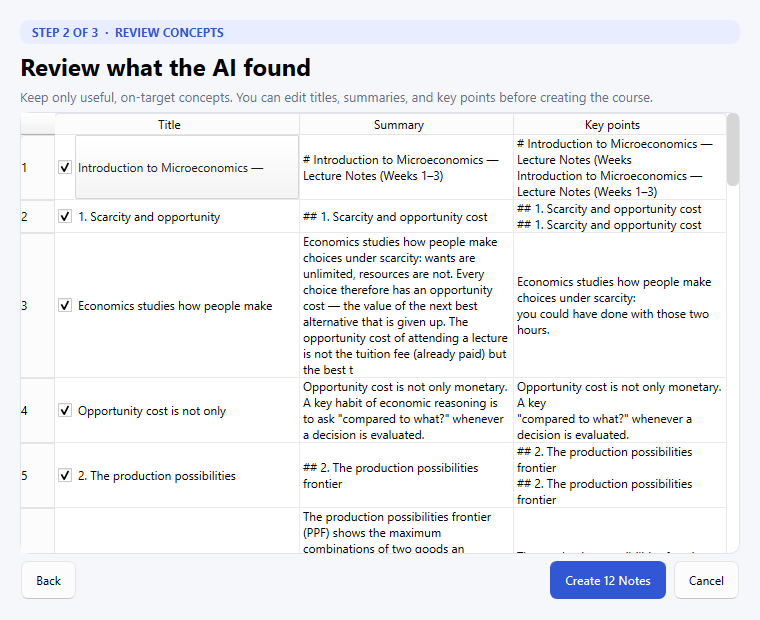
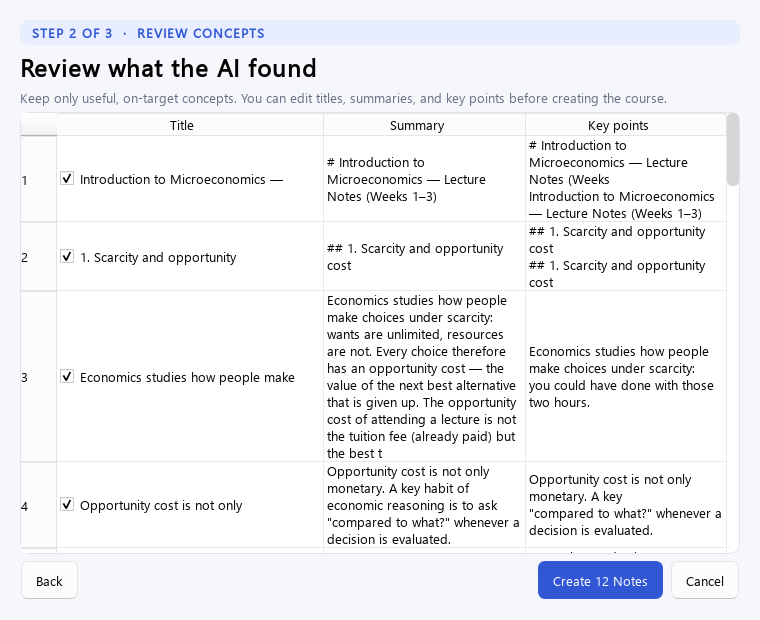
Refresh-AI-generation-screenshots

diff --git a/tools/ankigpt_screenshots.py b/tools/ankigpt_screenshots.py
@@ -9,8 +9,8 @@ Usage (from the repo root, after `just build`):
         docs/ankigpt/screenshots [base-dir]
 
 With ANKIGPT_FAKE_LLM=1 it runs without network (placeholder content) —
-useful to check layouts. Screens include the Study Hub, concept editor, About
-page, create-course flow, reviewer, source viewer, and course settings.
+useful to check layouts. Screens cover the current Study Hub routes and the
+AI-assisted typed-answer reviewer shown in the repository documentation.
 """
 
 from __future__ import annotations
@@ -30,12 +30,14 @@ sys.path.extend(["pylib", "qt", "out/pylib", "out/qt"])
 
 import aqt  # noqa: E402
 from aqt.profiles import ProfileManager  # noqa: E402
-from aqt.qt import QWidget  # noqa: E402
+from aqt.qt import QFont, QFontDatabase, QWidget  # noqa: E402
 
 OUT = Path(sys.argv[1] if len(sys.argv) > 1 else "docs/ankigpt/screenshots")
 BASE = sys.argv[2] if len(sys.argv) > 2 else "/tmp/ankigpt-screenshots-base"
 SAMPLE = Path("docs/ankigpt/sample-course.md").resolve()
-DECK = "Intro Microeconomics"
+COURSE = "Intro Microeconomics"
+SUBCATEGORY = "Core Notes"
+DECK = f"{COURSE}::{SUBCATEGORY}"
 INSTRUCTIONS = (
     "First-year intro microeconomics, weeks 1-3. Focus on the core models and "
     "the intuition behind them, not on the numerical examples."
@@ -64,6 +66,13 @@ def run() -> None:
     aqt.AnkiApp.KEY = f"ankigpt-screenshots-{os.getpid()}"
     app = aqt._run(["anki", "-b", BASE], exec=False)
     assert app is not None
+    for font_path in (
+        "C:/Windows/Fonts/segoeui.ttf",
+        "C:/Windows/Fonts/arial.ttf",
+    ):
+        if Path(font_path).exists() and QFontDatabase.addApplicationFont(font_path) >= 0:
+            app.setFont(QFont("Segoe UI", 10))
+            break
 
     def pump(cond: Callable[[], bool], what: str, timeout: float = 180) -> None:
         start = time.time()
@@ -94,76 +103,98 @@ def run() -> None:
     settle()
     col = mw.col
 
-    from aqt.ankigpt import get_store
     from aqt.ankigpt.generate_dialog import CreateConceptDeckDialog
     from aqt.ankigpt.settings import (
         DeckSettings,
-        DeckSettingsDialog,
-        deck_settings,
         save_deck_settings,
     )
 
     # ---- 1. create-deck dialog, filled in
     dialog = CreateConceptDeckDialog(mw)
     dialog.resize(760, 620)
-    dialog.files.append(str(SAMPLE))
-    dialog.file_list.addItem(str(SAMPLE))
-    dialog._suggest_target()
-    dialog.deck_name.setCurrentText(DECK)
+    dialog._add_source_paths([str(SAMPLE)])
+    dialog.deck_name.setCurrentText(COURSE)
+    dialog.subcategory.setText(SUBCATEGORY)
     dialog.instructions.setPlainText(INSTRUCTIONS)
     dialog.target.setValue(12)
     dialog.mode.setCurrentIndex(1)  # typed
     shot(dialog, "02-create-deck")
 
-    # ---- 2. extraction with the progress page, then the preview table
+    # ---- 2. representative book structure review
+    from aqt.ankigpt import extract
+    from aqt.ankigpt.book_structure import detect_book_structure
+
+    book_dialog = CreateConceptDeckDialog(mw)
+    book_dialog.resize(900, 650)
+    book_dialog.book_source.setChecked(True)
+    book_dialog.deck_name.setCurrentText("Physical Geology")
+    book_dialog.subcategory.setText("Physical Geology, 2nd Edition")
+    book_text = "\n\n".join(
+        [
+            "# Chapter 1 Foundations",
+            "## 1.1 What Is Geology?\n" + "Earth systems and inquiry. " * 180,
+            "## 1.2 Why Study Earth?\n" + "Hazards and resources. " * 150,
+            "# Chapter 2 Minerals",
+            "## 2.1 Elements and Atoms\n" + "Atomic structure and bonding. " * 170,
+            "## 2.2 Mineral Properties\n" + "Physical properties. " * 190,
+        ]
+    )
+    book_dialog._book_doc = extract.Document("physical-geology.md", book_text)
+    book_dialog._book_chapters = detect_book_structure(book_text)
+    book_dialog._fill_structure_tree()
+    book_dialog.stack.setCurrentIndex(1)
+    shot(book_dialog, "17-book-structure")
+    book_dialog.close()
+
+    # ---- 3. extraction with progress, then concept review
     dialog.on_extract()
     # capture the progress page once a few log lines are in (or immediately
     # if extraction is instantaneous, e.g. with the fake client)
     pump(
-        lambda: dialog.stack.currentIndex() != 2
+        lambda: dialog.stack.currentIndex() != 3
         or dialog.progress_log.blockCount() >= 4,
         "progress page",
         120,
     )
-    if dialog.stack.currentIndex() == 2:
+    if dialog.stack.currentIndex() == 3:
         shot(dialog, "03-extracting", 0)
-    pump(lambda: dialog.stack.currentIndex() == 1, "extraction to finish", 600)
+    else:
+        dialog.stack.setCurrentIndex(3)
+        shot(dialog, "03-extracting", 0)
+        dialog.stack.setCurrentIndex(2)
+    pump(lambda: dialog.stack.currentIndex() == 2, "extraction to finish", 600)
     dialog.table.resizeRowsToContents()
     shot(dialog, "04-preview")
     dialog.on_create()
     pump(lambda: not dialog.isVisible(), "notes to be created", 60)
 
-    # ---- 3. current Study Hub and its primary informational routes
+    # ---- 3. current Study Hub and its primary routes
     mw.moveToState("deckBrowser")
-    mw.deckBrowser.refresh()
-    settle(3.0)
-    mw.deckBrowser.web.eval("window.scrollTo(0, 0);")
-    shot(mw.deckBrowser.web, "01-deck-list", 1.0)
-
     import aqt.ankigpt as ankigpt_module
 
-    concepts = ankigpt_module._concept_records(mw)
-    if concepts:
-        ankigpt_module._shell_route = f"concept:{concepts[0][0]}"
+    def shell_shot(route: str, name: str) -> None:
+        ankigpt_module._shell_route = route
         mw.deckBrowser.refresh()
         settle(3.0)
         mw.deckBrowser.web.eval("window.scrollTo(0, 0);")
-        shot(mw.deckBrowser.web, "12-concept-editor", 1.0)
-    ankigpt_module._shell_route = "about"
-    mw.deckBrowser.refresh()
-    settle(3.0)
-    mw.deckBrowser.web.eval("window.scrollTo(0, 0);")
-    shot(mw.deckBrowser.web, "13-about", 1.0)
-    ankigpt_module._shell_route = "home"
+        shot(mw.deckBrowser.web, name, 1.0)
 
-    # ---- 4. overview of the concept deck (badge + Concept Settings)
     deck_id = col.decks.id_for_name(DECK)
     assert deck_id is not None
-    col.decks.select(deck_id)
-    mw.moveToState("overview")
-    shot(mw, "05-overview")
+    shell_shot("home", "01-deck-list")
+    shell_shot("concepts", "14-concepts")
+    concepts = ankigpt_module._concept_records(mw)
+    if concepts:
+        shell_shot(f"concept:{concepts[0][0]}", "12-concept-editor")
+    shell_shot(f"course:{int(deck_id)}", "15-course")
+    shell_shot("settings", "16-settings")
+    shell_shot("about", "13-about")
+    ankigpt_module._shell_route = "home"
 
-    # ---- 5. typed-mode question, then graded answer
+    # ---- 4. select the generated course before entering the reviewer
+    col.decks.select(deck_id)
+
+    # ---- 5. current typed-mode question, then graded answer
     save_deck_settings(col, deck_id, DeckSettings(mode="typed", context=INSTRUCTIONS))
     reviewer = mw.reviewer
     mw.moveToState("review")
@@ -180,49 +211,6 @@ def run() -> None:
     settle(1.0)
     reviewer.web.eval("window.scrollTo(0, 0);")
     shot(mw, "07-review-graded", 0.5)
-
-    # ---- 5b. the source viewer, opened from the answer's "Open in source" link
-    from aqt.ankigpt.sources import SourceViewerDialog
-
-    cur = reviewer.ankigpt._current
-    docs = get_store().documents_for_deck(int(deck_id))
-    if cur is not None and cur.passages and docs:
-        viewer = SourceViewerDialog(
-            mw, docs, cur.passages[0].doc_id, [(p.start, p.end) for p in cur.passages]
-        )
-        viewer.show()
-        shot(viewer, "11-source-viewer", 1.0)
-        viewer.close()
-
-    # ---- 6. multiple choice on the next card (fresh generation)
-    first_id = reviewer.card.id
-    save_deck_settings(col, deck_id, DeckSettings(mode="mcq", context=INSTRUCTIONS))
-    store = get_store()
-    store.db.execute("DELETE FROM question_cache")
-    store.db.commit()
-    reviewer._answerCard(3)
-    pump(
-        lambda: reviewer.state == "question" and reviewer.card.id != first_id,
-        "next card",
-    )
-    settle(1.0)
-    shot(mw, "08-review-mcq")
-
-    # ---- 7. deck settings dialog
-    mw.moveToState("overview")
-    settings_dialog = DeckSettingsDialog(mw, deck_id)
-    settings_dialog.show()
-    shot(settings_dialog, "09-deck-settings", 0.8)
-    settings_dialog.close()
-    assert deck_settings(col, deck_id).mode == "mcq"
-
-    # ---- 8. the in-app guide
-    from aqt.ankigpt.help import GuideDialog
-
-    guide = GuideDialog(mw)
-    guide.show()
-    shot(guide, "10-guide", 0.8)
-    guide.close()
 
     mw.unloadProfileAndExit()
     pump(lambda: aqt.mw is None or aqt.mw.col is None, "profile unload", 30)

diff --git a/README.md b/README.md
@@ -31,26 +31,30 @@ microeconomics course.
 
 ![Current AnkiGPT Study Hub](docs/ankigpt/screenshots/01-deck-list.png)
 
-| Create a course from source material | Review concepts before creating the deck |
+| Browse the concept library | Refine a concept in the Study Hub |
 | --- | --- |
-| ![Create a concept deck from a document](docs/ankigpt/screenshots/02-create-deck.png) | ![Review AI-proposed concepts](docs/ankigpt/screenshots/04-preview.png) |
+| ![Browse concepts in the current Study Hub](docs/ankigpt/screenshots/14-concepts.png) | ![Edit a concept and its visual aid](docs/ankigpt/screenshots/12-concept-editor.png) |
 
-| Refine a concept in the Study Hub | Review licensing, credits, and privacy information |
+| Configure course generation | Review detected book structure |
 | --- | --- |
-| ![Edit a concept and its visual aid](docs/ankigpt/screenshots/12-concept-editor.png) | ![About AnkiGPT application information](docs/ankigpt/screenshots/13-about.png) |
+| ![Configure an AI concept course](docs/ankigpt/screenshots/02-create-deck.png) | ![Review detected chapters and sections](docs/ankigpt/screenshots/17-book-structure.png) |
+
+| Monitor extraction progress | Review concepts before creating decks |
+| --- | --- |
+| ![Monitor concept extraction](docs/ankigpt/screenshots/03-extracting.png) | ![Review AI-proposed concepts and destinations](docs/ankigpt/screenshots/04-preview.png) |
+
+| Open a course and choose the next action | Configure AI securely in Settings |
+| --- | --- |
+| ![Current course page](docs/ankigpt/screenshots/15-course.png) | ![Current AnkiGPT settings](docs/ankigpt/screenshots/16-settings.png) |
 
 | Study with an AI-generated question | Receive feedback and a suggested rating |
 | --- | --- |
 | ![Answer a generated study question](docs/ankigpt/screenshots/06-review-typed.png) | ![Review an AI-graded answer](docs/ankigpt/screenshots/07-review-graded.png) |
 
-Questions remain connected to the uploaded material. The source viewer opens
-the relevant document and highlights the passages retrieved for the current
-concept.
+Licensing, upstream credits, privacy guidance, version information, and
+support links are available without leaving the application.
 
-![Source document with supporting passages highlighted](docs/ankigpt/screenshots/11-source-viewer.png)
-
-Additional screenshots are available in
-[`docs/ankigpt/screenshots`](docs/ankigpt/screenshots).
+![About AnkiGPT application information](docs/ankigpt/screenshots/13-about.png)
 
 ## Install on Windows
 
